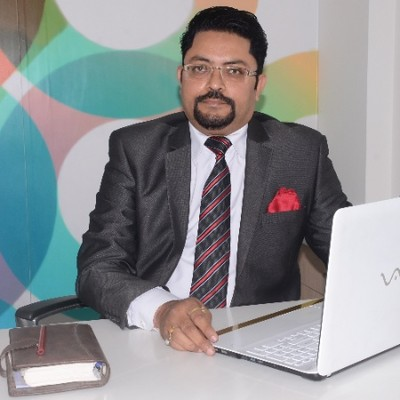
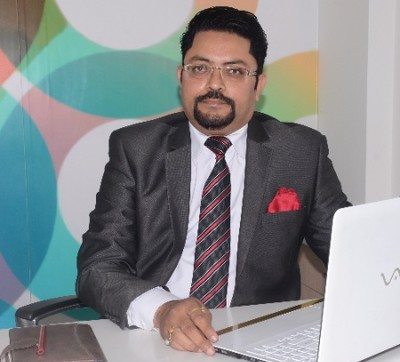
g

diff --git a/index.html b/index.html
@@ -2240,7 +2240,7 @@
                 <div style="display: column; flex-direction: column; justify-content: center; align-items: center;">      
                     <div style="margin: auto" style="align-items: center;">
                         <div class="col-md-6" style="margin: auto; align-items: center;" >
-                            <div class="team-box"> <img src="assets/img/team/Director.png" width="90%" height="250vh">
+                            <div class="team-box"> <img src="assets/img/team/Director.png" width="90%" height="280vh">
                                 <h2 style="height: 40px;">Dr. Mukul Gupta</h2>
                                 <h5>Convener</h5>
                                 <h6>
@@ -2252,7 +2252,7 @@
                         </div>
 
                         <div class="col-md-6" style="margin: auto; align-items: center;">
-                            <div class="team-box "> <img src="assets/img/team/Dean.png" width="90%" height="250vh">
+                            <div class="team-box "> <img src="assets/img/team/Dean.png" width="90%" height="280vh">
                                 <h2 style="height: 40px;">Dr. Deepa Gupta</h2>
                                 <h5>Co-Convener</h5>
                                 <h6>
